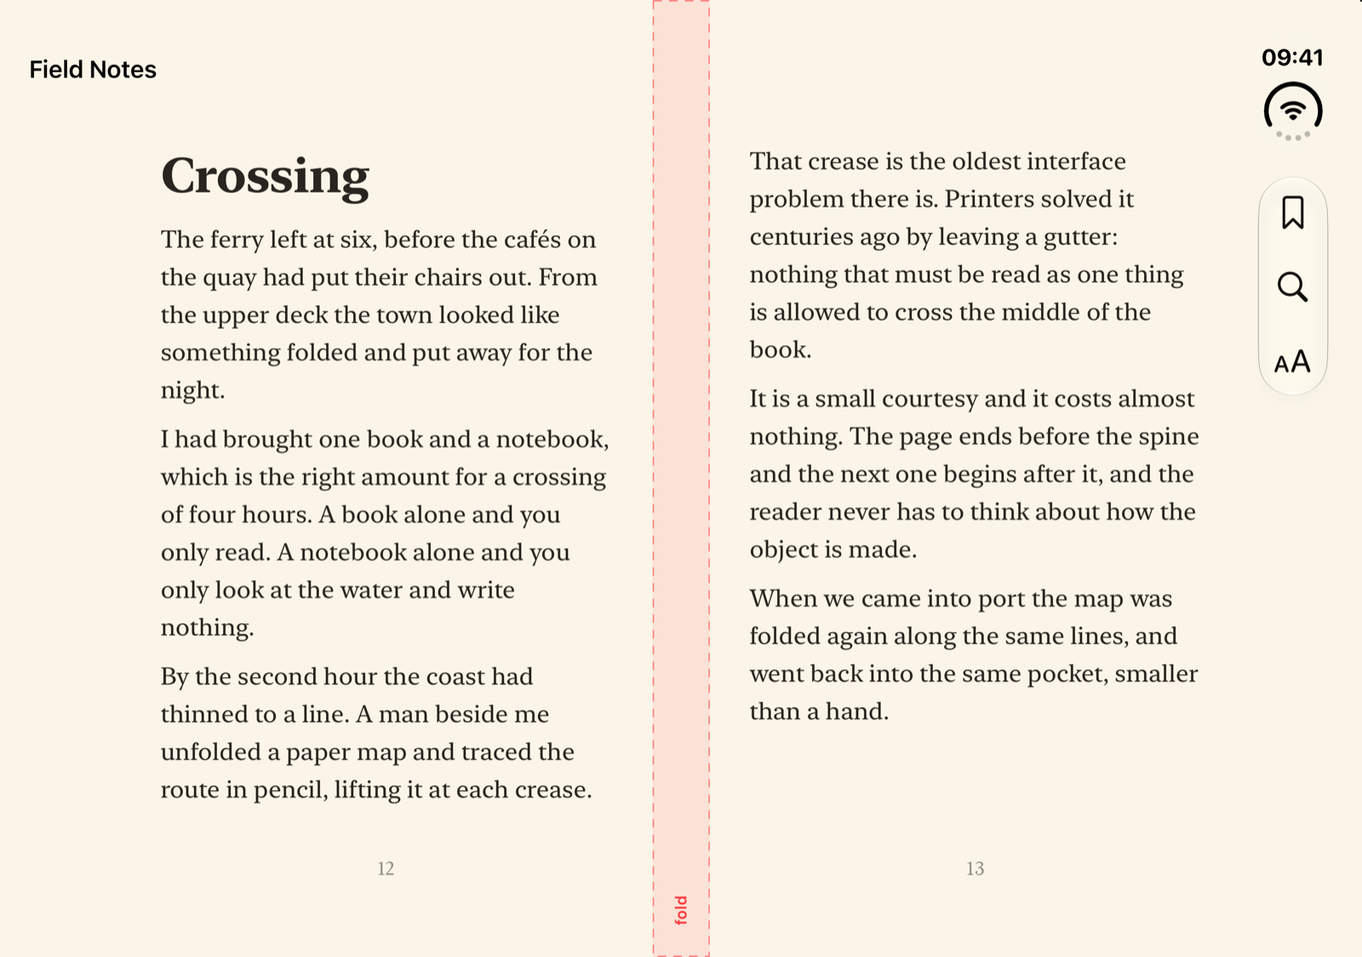
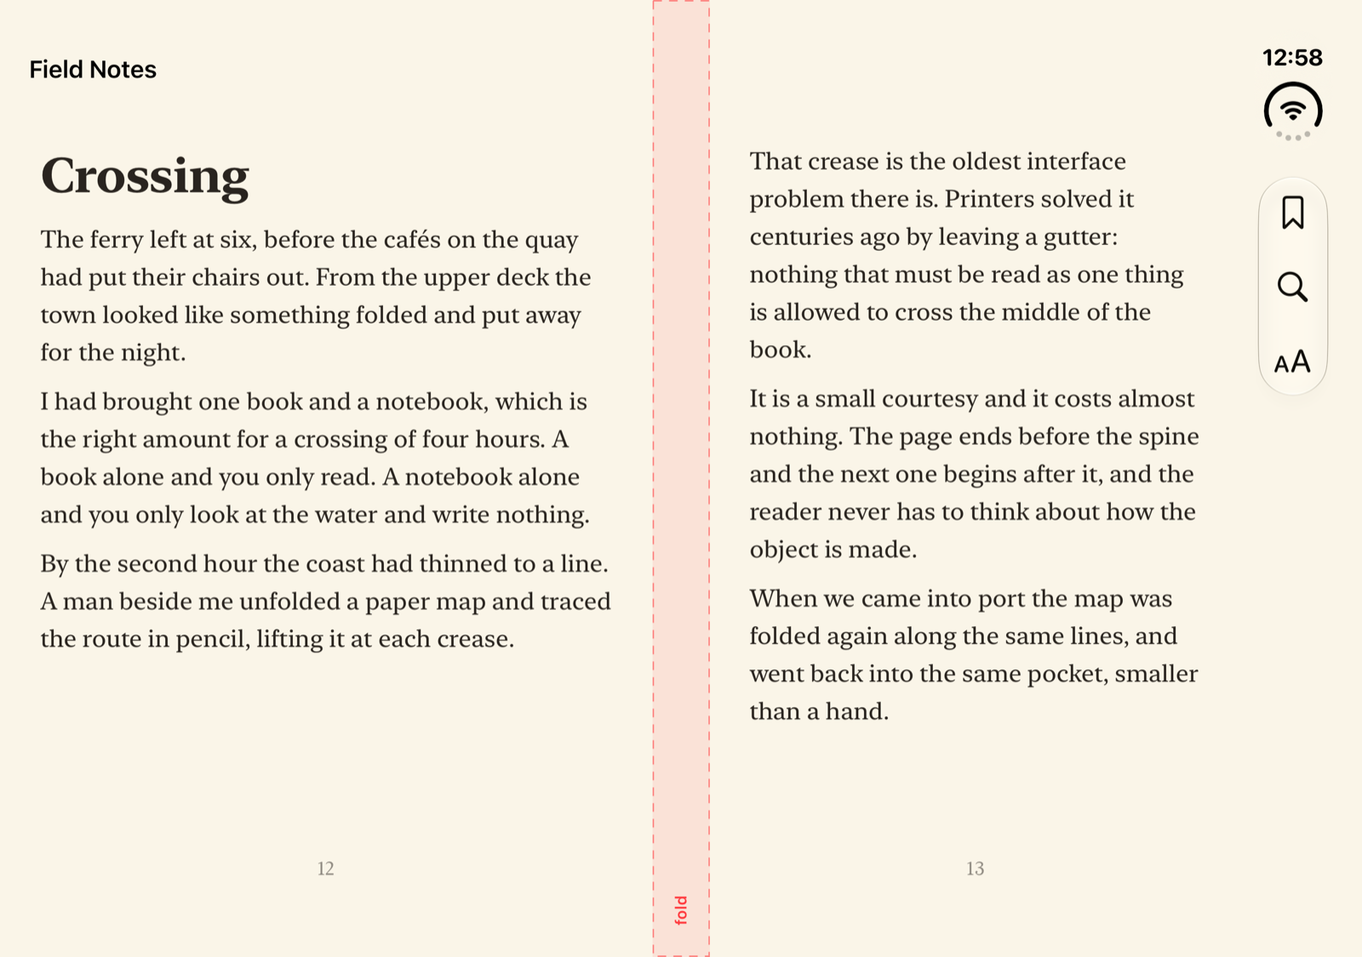
Release 0.1.2: book pages fill their own side of the fold
The two pages of the book layout are no longer forced to one width. The
side bar takes room from one side, so the page beside it is narrower.
BookSpread fills each side by default; matchesPageWidths keeps equal
pages when the content needs them.

Run on the iPhone Duo simulator (iOS 27.2) in English, in Arabic and
with right-to-left forced: the bar stayed on the right, the page order
mirrored and the first page became the narrower one.

Changed region(s): [[0.0312, 0.1556, 0.4375, 0.84], [0.9375, 0.0311, 0.9688, 0.0933]]

diff --git a/fixtures/DuoBookSample/BookSpread.swift b/fixtures/DuoBookSample/BookSpread.swift
@@ -9,26 +9,33 @@ import SwiftUI
 ///
 /// The fold comes from the division reserved region, asked for with `.includeInactive`
 /// so the layout is the same whether the device is flat or partially folded.
+///
+/// Each page fills its own side of the fold. A vertical bar takes room from one side,
+/// so the page next to the bar is the narrower one. Set `matchesPageWidths` only when
+/// the content needs two pages of the same width.
 @available(iOS 27.1, *)
 struct BookSpread<First: View, Second: View>: View {
     @Environment(\.horizontalSizeClass) private var horizontalSizeClass
     var minimumPageWidth: CGFloat = 300
     var minimumPageHeight: CGFloat = 240
     var minimumGutter: CGFloat = 24
+    var matchesPageWidths = false
     @ViewBuilder var first: First
     @ViewBuilder var second: Second
 
     var body: some View {
         GeometryReader { proxy in
             switch arrangement(in: proxy) {
-            case .sideBySide(let leading, let gutter, let trailing, let page):
+            case .sideBySide(let leading, let gutter, let trailing):
+                // Matched pages stay against the fold; the spare room goes to the outer edge.
+                let matched = matchesPageWidths ? min(leading, trailing) : nil
                 HStack(spacing: 0) {
                     first
-                        .frame(width: page)
+                        .frame(width: matched ?? leading)
                         .frame(width: leading, alignment: .trailing)
                     Color.clear.frame(width: gutter)
                     second
-                        .frame(width: page)
+                        .frame(width: matched ?? trailing)
                         .frame(width: trailing, alignment: .leading)
                 }
             case .stacked(let top, let gutter, let bottom):
@@ -48,7 +55,7 @@ struct BookSpread<First: View, Second: View>: View {
     }
 
     private enum Arrangement {
-        case sideBySide(leading: CGFloat, gutter: CGFloat, trailing: CGFloat, page: CGFloat)
+        case sideBySide(leading: CGFloat, gutter: CGFloat, trailing: CGFloat)
         case stacked(top: CGFloat, gutter: CGFloat, bottom: CGFloat)
         case single
     }
@@ -64,10 +71,9 @@ struct BookSpread<First: View, Second: View>: View {
             let gutter = max(frame.width, minimumGutter)
             let leading = frame.midX - gutter / 2
             let trailing = proxy.size.width - frame.midX - gutter / 2
-            // A side bar makes the two sides differ; both pages take the narrower width.
-            let page = min(leading, trailing)
-            guard page >= minimumPageWidth else { return .single }
-            return .sideBySide(leading: leading, gutter: gutter, trailing: trailing, page: page)
+            // A side bar makes the two sides differ: the side next to the bar is narrower.
+            guard min(leading, trailing) >= minimumPageWidth else { return .single }
+            return .sideBySide(leading: leading, gutter: gutter, trailing: trailing)
         }
 
         // The fold runs side to side: split only while it is active.

diff --git a/fixtures/DuoBookSample/SampleApp.swift b/fixtures/DuoBookSample/SampleApp.swift
@@ -17,10 +17,11 @@ struct DuoBookSampleApp: App {
     }
 }
 
+// `-matched YES` gives both pages the width of the narrower side.
 struct BookScreen: View {
     var body: some View {
         NavigationStack {
-            BookSpread {
+            BookSpread(matchesPageWidths: UserDefaults.standard.bool(forKey: "matched")) {
                 PageView(number: 1, tint: .orange)
             } second: {
                 PageView(number: 2, tint: .teal)
@@ -76,6 +77,7 @@ struct Probe: View {
     @Environment(\.horizontalSizeClass) private var horizontal
     @Environment(\.verticalSizeClass) private var vertical
     @Environment(\.toolbarVerticalEdge) private var barEdge
+    @Environment(\.layoutDirection) private var direction
     @State private var hinge = "hinge: –"
 
     var body: some View {
@@ -83,7 +85,10 @@ struct Probe: View {
             let all = proxy.reservedRegions(kind: .division, options: .includeInactive)
             let active = proxy.reservedRegions(kind: .division)
             let insets = proxy.safeAreaInsets
+            // `.fixed` reports the fold from the left edge; the default mirrors it for right-to-left.
+            let unmirrored = proxy.reservedRegions(kind: .division, options: .includeInactive, layoutDirectionBehavior: .fixed)
             VStack(alignment: .leading, spacing: 2) {
+                Text("direction:\(direction == .rightToLeft ? "RTL" : "LTR")  fold from the left: " + unmirrored.map { "x\(Int($0.frame.minX))" }.joined(separator: ","))
                 Text("size \(Int(proxy.size.width))×\(Int(proxy.size.height))  h:\(name(horizontal)) v:\(name(vertical))")
                 Text("insets L\(Int(insets.leading)) T\(Int(insets.top)) R\(Int(insets.trailing)) B\(Int(insets.bottom))  bar:\(barEdge.map { $0 == .leading ? "leading" : "trailing" } ?? "none")")
                 Text("division all:\(all.count) active:\(active.count)  " + all.map { "x\(Int($0.frame.minX)) y\(Int($0.frame.minY)) w\(Int($0.frame.width)) h\(Int($0.frame.height)) \($0.isActive ? "ACTIVE" : "inactive")" }.joined(separator: "; "))

diff --git a/skills/duo-book-layout/SKILL.md b/skills/duo-book-layout/SKILL.md
@@ -6,7 +6,7 @@ argument-hint: "[screen name]"
 
 # Two-page book layout on iPhone Duo
 
-A layout convention for the open inner display: content sits on two pages, one each side of the fold, the way an open book does. The pages do not move when the device goes from flat to partially folded.
+A layout convention for the open inner display: content sits on two pages, one each side of the fold, the way an open book does. The pages do not move when the device goes from flat to partially folded. The two pages are usually not the same width: the vertical bar takes room from one side, so the page beside the bar is the narrower one.
 
 <!-- duo-kit:card:start -->
 > **iPhone Duo is not an iPad.** Read this before answering.
@@ -45,9 +45,10 @@ A screen that spans must still move its controls off the fold while partially fo
 2. **Decide split or span** with the table. Write the reason for any span.
 3. **Name the two pages.** First page is what the outer display shows alone; the second is what the inner display adds. For reading, they are consecutive pages. For master–detail, the detail is the first page, because that is what remains when the device closes.
 4. **Use the recipe** in [references/book-spread.md](references/book-spread.md). Do not compute the middle of the screen: a side bar makes the content area off-center from the fold.
-5. **Keep position across poses.** Store the reading position as a page or content anchor, never as a spread index. Closing the device shows the first page of the current spread; opening it shows that page on the leading side.
-6. **Page two at a time** while split, one at a time while single. Page-turn controls sit at the outer edges of the spread, not at the fold.
-7. **Test** closed, open flat, partially folded like a book, partially folded like a laptop, flat in portrait, and both Split View halves, with `duo-pose-testing`.
+5. **Let each page fill its own side.** Do not force the two pages to one width. Lay each page out from the width it is given. See "Page widths" below.
+6. **Keep position across poses.** Store the reading position as a page or content anchor, never as a spread index. Closing the device shows the first page of the current spread; opening it shows that page on the leading side.
+7. **Page two at a time** while split, one at a time while single. Page-turn controls sit at the outer edges of the spread, not at the fold.
+8. **Test** closed, open flat, partially folded like a book, partially folded like a laptop, flat in portrait, and both Split View halves, with `duo-pose-testing`. Run the open poses once in a right-to-left language.
 
 ## Using the recipe
 
@@ -76,7 +77,21 @@ Measured on the iPhone Duo simulator (iOS 27.2 runtime, Xcode 27.2). Numbers are
 | Open flat, portrait | one, inactive, running side to side | One page |
 | Split View half | compact width | One page |
 
-With a vertical bar on the trailing side, the content area was 867 pt wide and the fold sat at 455–495 pt, so the leading side had 455 pt and the trailing side 372 pt. The recipe gives both pages the narrower width and keeps them against the fold, leaving the spare space at the outer edge.
+## Page widths
+
+The fold is in the middle of the display, and the vertical bar takes its room from one side only. So the two sides of the fold differ, and each page fills its own side. Forcing both pages to the narrower width leaves an empty band at the outer edge of the wider side.
+
+Measured on the same simulator, open in landscape, flat and partially folded: the content area was 867 pt wide, the fold region was 40 pt wide and the bar took 84 pt on the right.
+
+| Run | Bar | First page | Second page |
+|---|---|---|---|
+| English | right, the trailing edge | left, 455 pt | right, 371 pt |
+| Arabic, and English with right-to-left forced | right, now the leading edge | right, 371 pt | left, 455 pt |
+
+- **The page beside the bar is the narrower one.** In a left-to-right language that is the second page. In a right-to-left language the page order mirrors and the bar does not move, so it is the first page.
+- **Do not assume which side has the bar.** In these runs it stayed on the right in both landscape rotations and in both layout directions, which matches Apple's guidance that vertical controls stay with the hardware. The SDK's documentation comment for `toolbarVerticalEdge` (iOS 27.2 SDK) says the system chooses the edge from the locale and the device. A bar on the left of the open inner display was not reproduced. The recipe measures each side, so it needs no change if the bar is on the other side.
+- **Lay each page out from its own width.** Flowing text reflows per page. A paginated reader measures each page separately, because a page holds more text on the wider side.
+- **Equal pages are an option, not the default.** Use `matchesPageWidths: true` when the content is made of fixed-size pages, such as a scanned book or a PDF spread, or when two panels must line up row by row. Both pages then take the narrower width and stay against the fold, and the spare room is at the outer edge. Say why in the design notes.
 
 ## Why not `ArrangementView` for this
 
@@ -86,7 +101,8 @@ With a vertical bar on the trailing side, the content area was 867 pt wide and t
 
 - [ ] The fold comes from the division reserved region with `.includeInactive`, not from the screen's midpoint.
 - [ ] Nothing interactive and no line of text crosses the fold in any pose.
-- [ ] Both pages have the same width; spare space is at the outer edge.
+- [ ] Each page fills its own side of the fold; no empty band beside the wider page. Equal pages only with a stated reason.
+- [ ] No layout assumes which page is wider or which side has the bar; checked in a right-to-left language.
 - [ ] The outer display and Split View halves show one page with the same content reachable.
 - [ ] Position survives closing and opening.
 - [ ] Any spanning screen has its reason written down.

diff --git a/skills/duo-book-layout/references/book-spread.md b/skills/duo-book-layout/references/book-spread.md
@@ -14,26 +14,33 @@ import SwiftUI
 ///
 /// The fold comes from the division reserved region, asked for with `.includeInactive`
 /// so the layout is the same whether the device is flat or partially folded.
+///
+/// Each page fills its own side of the fold. A vertical bar takes room from one side,
+/// so the page next to the bar is the narrower one. Set `matchesPageWidths` only when
+/// the content needs two pages of the same width.
 @available(iOS 27.1, *)
 struct BookSpread<First: View, Second: View>: View {
     @Environment(\.horizontalSizeClass) private var horizontalSizeClass
     var minimumPageWidth: CGFloat = 300
     var minimumPageHeight: CGFloat = 240
     var minimumGutter: CGFloat = 24
+    var matchesPageWidths = false
     @ViewBuilder var first: First
     @ViewBuilder var second: Second
 
     var body: some View {
         GeometryReader { proxy in
             switch arrangement(in: proxy) {
-            case .sideBySide(let leading, let gutter, let trailing, let page):
+            case .sideBySide(let leading, let gutter, let trailing):
+                // Matched pages stay against the fold; the spare room goes to the outer edge.
+                let matched = matchesPageWidths ? min(leading, trailing) : nil
                 HStack(spacing: 0) {
                     first
-                        .frame(width: page)
+                        .frame(width: matched ?? leading)
                         .frame(width: leading, alignment: .trailing)
                     Color.clear.frame(width: gutter)
                     second
-                        .frame(width: page)
+                        .frame(width: matched ?? trailing)
                         .frame(width: trailing, alignment: .leading)
                 }
             case .stacked(let top, let gutter, let bottom):
@@ -53,7 +60,7 @@ struct BookSpread<First: View, Second: View>: View {
     }
 
     private enum Arrangement {
-        case sideBySide(leading: CGFloat, gutter: CGFloat, trailing: CGFloat, page: CGFloat)
+        case sideBySide(leading: CGFloat, gutter: CGFloat, trailing: CGFloat)
         case stacked(top: CGFloat, gutter: CGFloat, bottom: CGFloat)
         case single
     }
@@ -69,10 +76,9 @@ struct BookSpread<First: View, Second: View>: View {
             let gutter = max(frame.width, minimumGutter)
             let leading = frame.midX - gutter / 2
             let trailing = proxy.size.width - frame.midX - gutter / 2
-            // A side bar makes the two sides differ; both pages take the narrower width.
-            let page = min(leading, trailing)
-            guard page >= minimumPageWidth else { return .single }
-            return .sideBySide(leading: leading, gutter: gutter, trailing: trailing, page: page)
+            // A side bar makes the two sides differ: the side next to the bar is narrower.
+            guard min(leading, trailing) >= minimumPageWidth else { return .single }
+            return .sideBySide(leading: leading, gutter: gutter, trailing: trailing)
         }
 
         // The fold runs side to side: split only while it is active.
@@ -91,7 +97,7 @@ struct BookSpread<First: View, Second: View>: View {
 2. It asks for the division region with `.includeInactive`. Without that option the region disappears when the device is flat and the layout would change as the device folds.
 3. A region taller than it is wide is a fold that runs top to bottom: pages go side by side, flat or folded.
 4. A region wider than it is tall is a fold that runs side to side. Pages stack above and below it only while it is active, which is the laptop pose. Flat in portrait stays one page.
-5. Each page takes the narrower of the two sides, so both pages match even when a side bar makes the sides unequal.
+5. Each page fills its own side of the fold. A side bar makes the sides unequal, so the page beside the bar is narrower. With `matchesPageWidths` set, both pages take the narrower width and stay against the fold.
 6. If a page would be narrower than `minimumPageWidth` or shorter than `minimumPageHeight`, it falls back to one page.
 
 ## Adapting it
@@ -101,4 +107,5 @@ struct BookSpread<First: View, Second: View>: View {
 - **Backgrounds.** Give each page its own background and let it extend under the bars with `.ignoresSafeArea()` on the background only. Keep text and controls inside the safe area.
 - **The gutter.** The region already includes margins around the physical fold. Do not draw text, dividers that need to be read, or controls inside it. A soft shadow is fine.
 - **UIKit.** `UIView.reservedRegions(kind:options:)` returns the same regions for a view. Lay out two child views from the region's frame in `viewDidLayoutSubviews`, with the same rules as above.
+- **Right-to-left.** `reservedRegions(kind:options:layoutDirectionBehavior:)` mirrors by default (iOS 27.2 SDK), so the fold's frame is measured from the leading edge and the recipe needs no branch on layout direction. Run in Arabic on the simulator, the first page was on the right at 371 pt, beside the bar, and the second on the left at 455 pt. Pass `.fixed` only when a frame from the left edge is needed.
 - **Regions arrive after the first layout pass.** Read them during layout, as the recipe does. Do not cache a frame.

diff --git a/README.md b/README.md
@@ -15,7 +15,7 @@ The same reading screen on the iPhone Duo simulator, partially folded. The red b
 | What a model builds by default | With `duo-book-layout` |
 |---|---|
 | <img src="docs/images/without-book-layout.png" width="420" alt="One column of text running across the fold"> | <img src="docs/images/book-layout.png" width="420" alt="Two pages, one each side of the fold"> |
-| One wide column, as on a tablet. Every line crosses the fold. | Two pages either side of the fold. The layout is identical flat and partially folded. |
+| One wide column, as on a tablet. Every line crosses the fold. | Two pages either side of the fold. The layout is identical flat and partially folded. The page beside the side bar is the narrower one. |
 
 The same screen in the other poses, with no pose-specific code:
 
@@ -55,7 +55,7 @@ Two optional Claude Code agents wrap the noisiest work: `duo-readiness-scan` and
 
 Two rules here go beyond Apple's guidance. Both are stated as such inside the skills.
 
-- **Book layout.** With the device open in landscape, content screens and master–detail pairs use two pages either side of the fold, whether the device is flat or partially folded. Apple only requires keeping content off the fold while it is partially folded. Scrolling lists, maps and immersive media may span the display, with the reason stated.
+- **Book layout.** With the device open in landscape, content screens and master–detail pairs use two pages either side of the fold, whether the device is flat or partially folded. Apple only requires keeping content off the fold while it is partially folded. Scrolling lists, maps and immersive media may span the display, with the reason stated. The two pages are not forced to one width: each fills its own side of the fold, and the side bar makes one side narrower.
 - **Optimized references only.** When researching shipped apps, only apps verified as optimized for iPhone Duo on the day of the research count. Partly optimized, unoptimized and unverified apps are left out.
 
 ## Install
@@ -93,12 +93,12 @@ Clone the repository, add the folder to a local marketplace file, and install it
 See `provenance.json` for the exact Xcode build.
 
 - Every Swift block in the skills type-checks against the iOS simulator SDK.
-- The book layout in `fixtures/DuoBookSample` was built and run on an iPhone Duo simulator: closed, open in landscape, partially folded in landscape and partially folded in portrait. The measurements quoted in the skills come from those runs.
+- The book layout in `fixtures/DuoBookSample` was built and run on an iPhone Duo simulator: closed, open in landscape, partially folded in landscape and partially folded in portrait. The measurements quoted in the skills come from those runs. The open pose was also run in Arabic and with right-to-left layout forced, to check which page is beside the bar.
 - Toolbar overflow order, visibility priorities, compression and the vertical-bar opt-out were run on the same simulator, closed and open in both orientations. Split and overlay arrangements were run closed, flat and partially folded. The lab screens are in the sample app (`-mode toolbar`, `-mode split`, `-mode overlay`).
 - Statements about API behavior that were not run are taken from the documentation comments in the SDK and say so.
 - Simulator facts in `duo-pose-testing` (runtime compatibility, display capture) were checked on the same setup.
 
-Not verified: behavior on a physical device, the camera accessory (the simulator has no camera), Split View halves, and the UIKit equivalents, which are described but not compiled. The trigger prompts in `evals/` were run with the plugin in both harnesses, and seven of them without any plugin in Codex; results and their limits are recorded there.
+Not verified: behavior on a physical device, a side bar on the left of the open inner display, the camera accessory (the simulator has no camera), Split View halves, and the UIKit equivalents, which are described but not compiled. The trigger prompts in `evals/` were run with the plugin in both harnesses, and seven of them without any plugin in Codex; results and their limits are recorded there.
 
 ## Maintaining
 

diff --git a/CHANGELOG.md b/CHANGELOG.md
@@ -1,5 +1,17 @@
 # Changelog
 
+## 0.1.2 — 2026-11-18
+
+Book layout: the two pages are no longer forced to one width.
+
+- `duo-book-layout`: each page fills its own side of the fold. The side bar takes room from one side, so the page beside it is narrower (measured: 455 and 371 pt). Before, both pages took the narrower width and an empty band was left at the outer edge. New "Page widths" section, runbook step and checklist items.
+- `BookSpread`: pages fill their sides by default. `matchesPageWidths` keeps equal pages for fixed-size pages or panels that must line up, with the reason stated.
+- Right-to-left, run on the simulator in Arabic and with right-to-left forced: the bar stayed on the right, the page order mirrored, and the first page became the narrower one. The reserved-region query mirrors by default, so the recipe needs no branch on layout direction.
+- `duo-vertical-bars` and the review checklist: do not assume the bar is on the trailing edge; check the narrow page on either side.
+- Documentation image `book-layout.png` captured again. The sample's probe prints the layout direction; `-matched YES` shows equal pages.
+
+Not reproduced: a side bar on the left of the open inner display. No setting that moves it was found in Apple's two pages or in the simulator's Settings search. The SDK's documentation comment says the system chooses the edge from the locale and the device. Skill descriptions did not change, so the trigger prompts were not run again.
+
 ## 0.1.1 — 2026-11-17
 
 Toolbars and arrangements, re-checked and measured.

diff --git a/skills/duo-app-readiness/references/sources.md b/skills/duo-app-readiness/references/sources.md
@@ -33,7 +33,7 @@ Apple publishes no point dimensions for the two displays. Community measurements
 
 ## What was run on the simulator
 
-On an iPhone Duo simulator with the iOS 27.2 runtime, using `fixtures/DuoBookSample`: the book layout and reserved regions in four poses; toolbar overflow, priorities, compression and the vertical-bar opt-out closed in both orientations and open in both; split and overlay arrangements closed, flat and partially folded. Numbers quoted from those runs are labelled as measured where they appear.
+On an iPhone Duo simulator with the iOS 27.2 runtime, using `fixtures/DuoBookSample`: the book layout and reserved regions in four poses; the open pose again in Arabic, with right-to-left layout forced and in the other landscape rotation, for page widths and the side of the bar; toolbar overflow, priorities, compression and the vertical-bar opt-out closed in both orientations and open in both; split and overlay arrangements closed, flat and partially folded. Numbers quoted from those runs are labelled as measured where they appear.
 
 ## Statements that rest on one source
 

diff --git a/skills/duo-vertical-bars/SKILL.md b/skills/duo-vertical-bars/SKILL.md
@@ -37,7 +37,7 @@ In the iOS 27.2 SDK the APIs come from two releases. `topBarPinnedTrailing`, `vi
 | Sheet on the inner display | Horizontal when centered or leading, vertical when trailing |
 | Split View multitasking | Each app's bar on its own outer edge |
 
-The bar stays on the hardware side: it does not flip for right-to-left languages. The status bar and the Dynamic Island share that edge.
+The bar stays on the hardware side: it does not flip for right-to-left languages. The status bar and the Dynamic Island share that edge. Run in Arabic on the simulator (iOS 27.2), open in landscape, the bar stayed on the right and `toolbarVerticalEdge` read `.leading`. Read that value or the safe area; do not assume the bar is trailing.
 
 A vertical bar does not replace the top bar. In every vertical pose run on the simulator, a horizontal bar stayed at the top with the title and the items that cannot go vertical.
 

diff --git a/skills/duo-design-review/references/pose-checklist.md b/skills/duo-design-review/references/pose-checklist.md
@@ -26,7 +26,8 @@ Answer each question with yes, no or cannot tell. "Cannot tell" from a still ima
 - Are the same functions present as in pose 1?
 - Are bar items in the same order and relative position as in pose 1?
 - Do grids have an even number of columns?
-- Is spare space at the outer edge, not at the fold?
+- Does each page fill its own side of the fold? The page beside the bar is narrower; an empty band at the outer edge of the other page is wasted space unless equal pages have a stated reason.
+- Does the design still work with the narrow page on the other side, as in a right-to-left language?
 
 ## 4. Partially folded, like a book (fold runs top to bottom)
 
